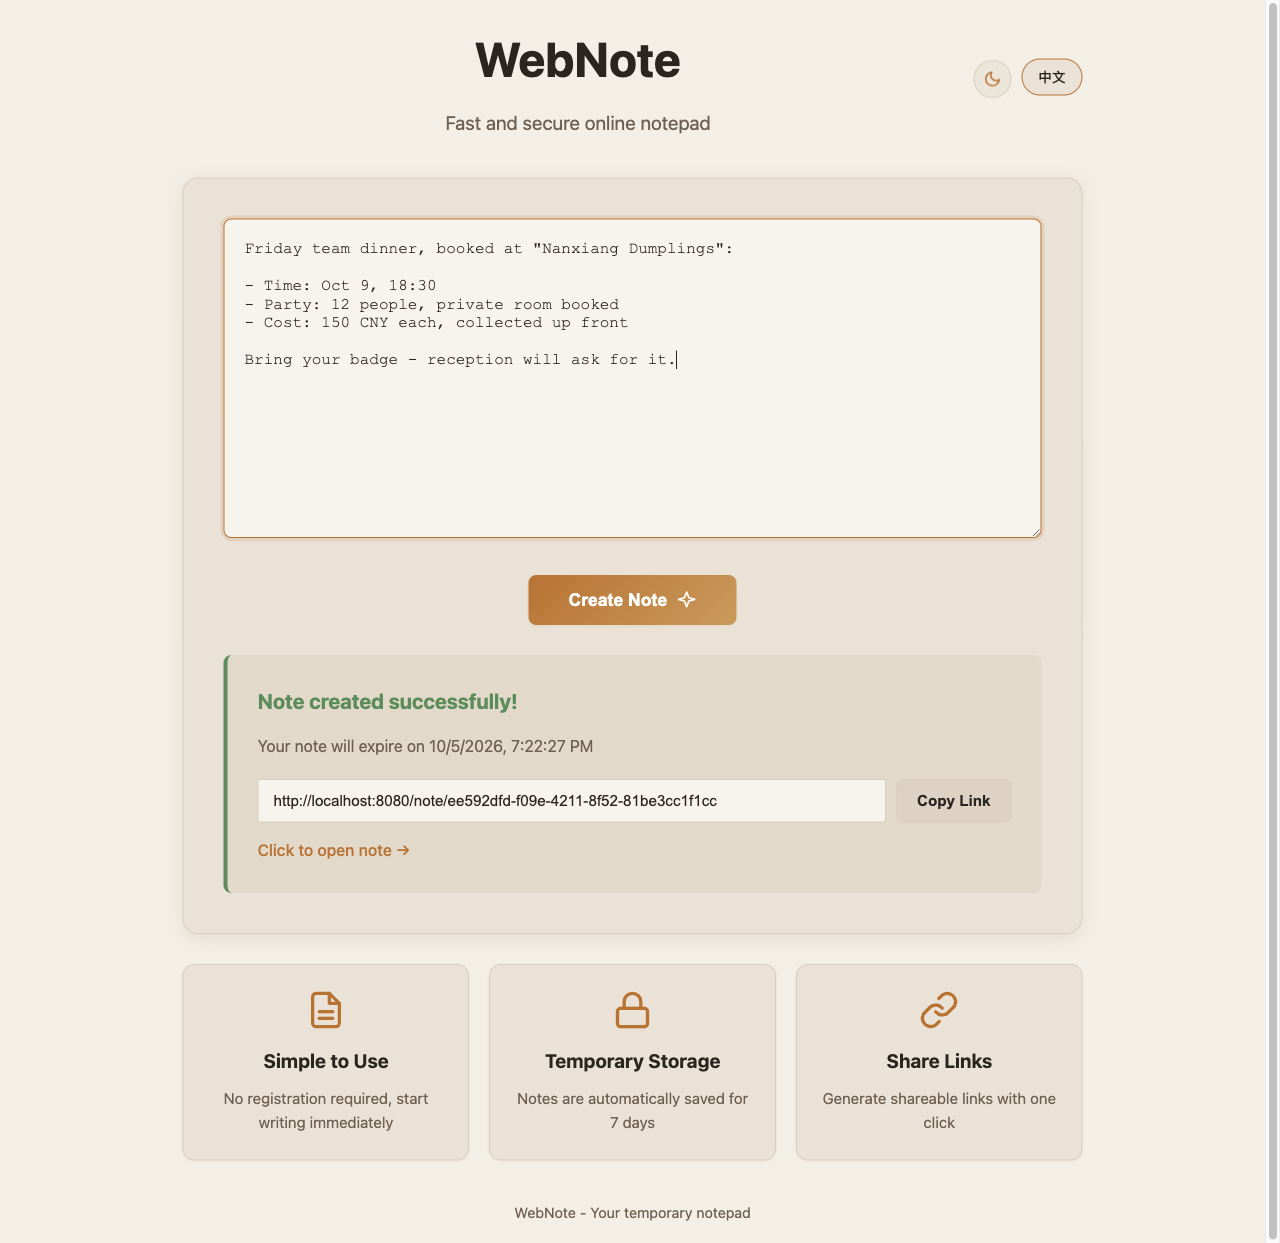
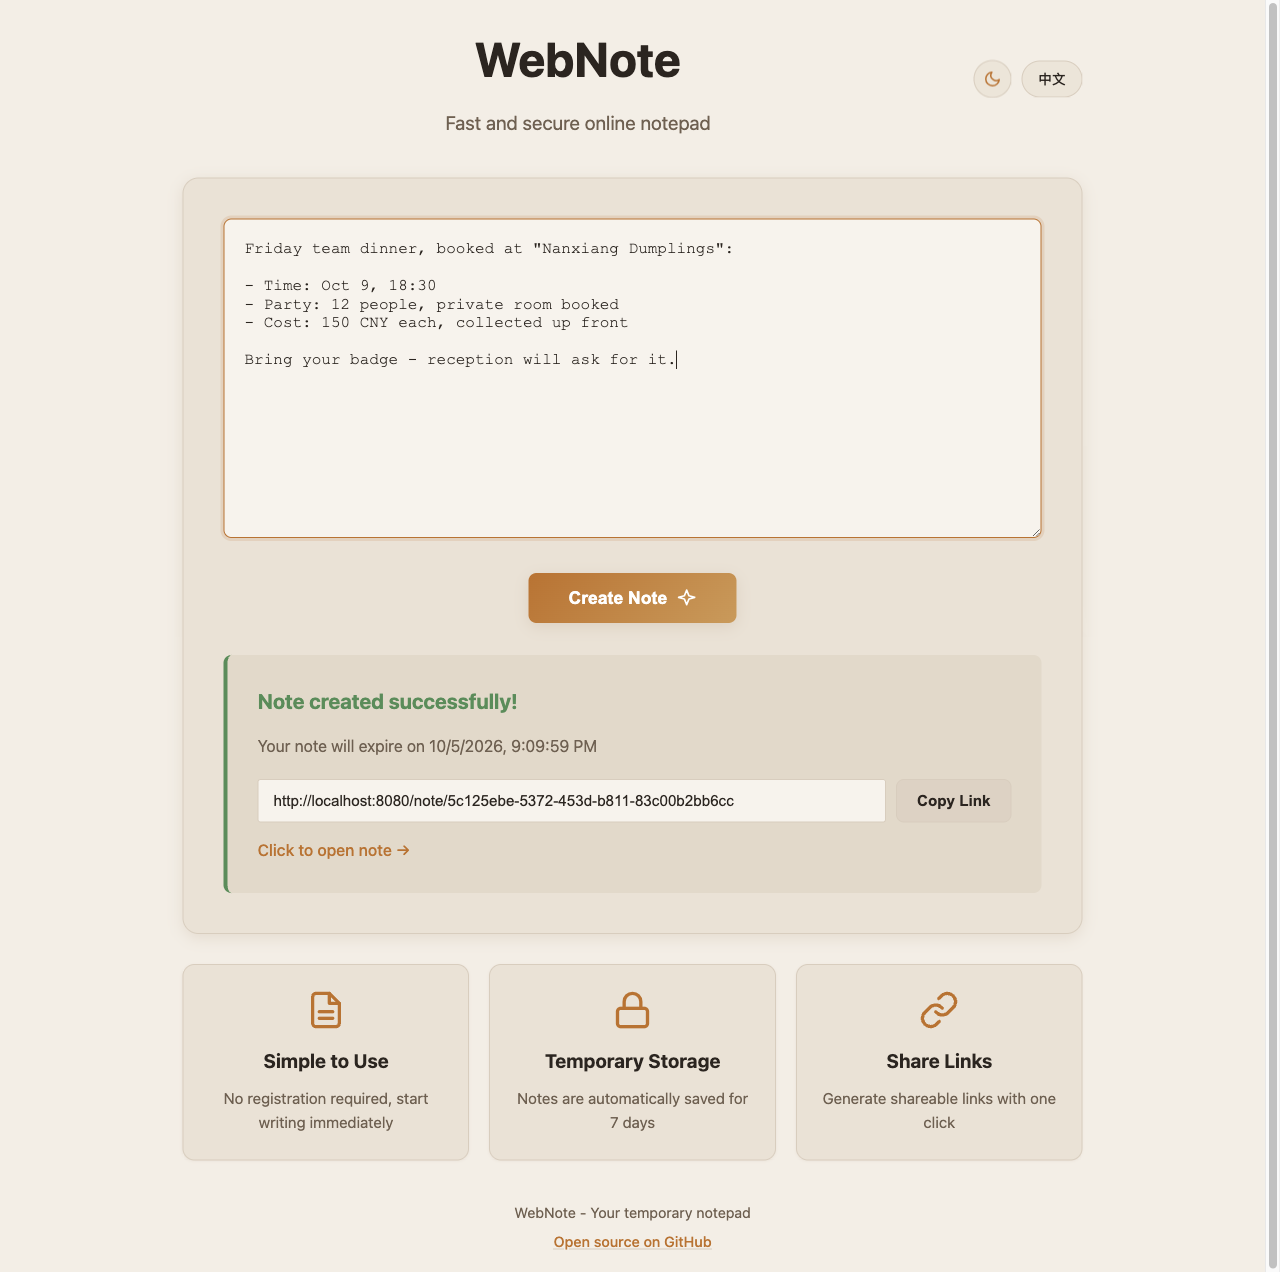
feat(footer): 页脚加回开源仓库入口，并重拍双语截图
- index.html 页脚第二行加仓库链接（target=_blank + rel="noopener noreferrer"）
- 锚文本走 i18n：zh「GitHub 开源仓库」/ en「Open source on GitHub」
- 原 <p data-i18n="footer"> 拆成 <span>：data-i18n 是整体 textContent 赋值，
  留在 <p> 上会把新增的 <a> 一起抹掉
- styles.css 补 .footer-link：颜色跟随 --primary、下划线用 --border 色 +
  text-underline-offset 2px、@media (hover: none) 还原触屏粘住的 hover 态
- 页脚多一行后内容高度变化，中英两张截图重拍（1280×1253 / 1280×1272）

diff --git a/public/styles.css b/public/styles.css
@@ -325,6 +325,26 @@ body::before {
   font-size: .9rem;
 }
 
+.footer p { margin: 0; }
+
+.footer-link {
+  display: inline-block;
+  margin-top: 6px;
+  color: var(--primary);
+  font-weight: 500;
+  text-decoration: underline;
+  text-decoration-color: var(--border);
+  text-underline-offset: 2px;
+  transition: text-decoration-color .2s, color .2s;
+}
+
+.footer-link:hover { text-decoration-color: currentColor; }
+
+/* 触屏没有 hover，点完会把 hover 态粘住 —— 这里还原 */
+@media (hover: none) {
+  .footer-link { text-decoration-color: var(--border); }
+}
+
 /* ============ Responsive ============ */
 
 @media (max-width: 768px) {

diff --git a/public/index.html b/public/index.html
@@ -209,7 +209,10 @@
         </section>
 
         <footer class="footer">
-            <p data-i18n="footer">WebNote - 您的临时记事本</p>
+            <p>
+                <span data-i18n="footer">WebNote - 您的临时记事本</span><br />
+                <a class="footer-link" href="https://github.com/isnotry/WebNote" target="_blank" rel="noopener noreferrer" data-i18n="repoLink">GitHub 开源仓库</a>
+            </p>
         </footer>
     </div>
 

diff --git a/public/i18n.js b/public/i18n.js
@@ -55,6 +55,7 @@ const translations = {
             }
         },
         footer: 'WebNote - 您的临时记事本',
+        repoLink: 'GitHub 开源仓库',
         langSwitch: 'English'
     },
     en: {
@@ -113,6 +114,7 @@ const translations = {
             }
         },
         footer: 'WebNote - Your temporary notepad',
+        repoLink: 'Open source on GitHub',
         langSwitch: '中文'
     }
 };
